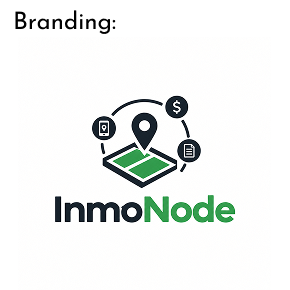
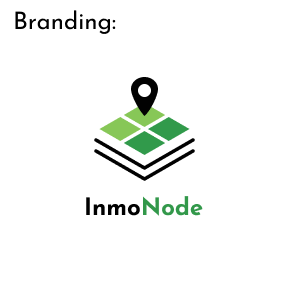
docs(chapter-03): add product design section and style guidelines

Changed region(s): [[0.1862, 0.2483, 0.8069, 0.7759]]

diff --git a/docs/Chapter-03.md b/docs/Chapter-03.md
@@ -4,7 +4,76 @@
 
 ### 3.1.1. Style Guidelines
 
+A continuación se presentan los styles guidelines, los cuales contemplan fuentes tipográficas, componentes gráficos y reglas visuales, con el objetivo de mantener una presentación consistente, coherente y enfocada en la usabilidad en todos los productos digitales del ecosistema **InmoNode**.
+
 #### 3.1.1.1. General Style Guidelines
+
+#### Branding y Tono de Comunicación
+La [Figura 3.1](#figura-3-1) identifica el isotipo y logotipo corporativo de InmoNode. La [Figura 3.2](#figura-3-2) identifica las dimensiones del tono de comunicación y lenguaje aplicado en las plataformas.
+
+<a id="figura-3-1"></a>
+![Branding de InmoNode](../assets/cap3/branding.png)  
+**Figura 3.1**  
+*Branding oficial de InmoNode*
+
+<a id="figura-3-2"></a>
+![Tono de Lenguaje](../assets/cap3/language.png)  
+**Figura 3.2**  
+*Tono de comunicación y lenguaje aplicado*
+
+* **Branding:** La identidad visual combina una mapa dividida en lotes con un puntero de ubicación. Las capas lineales inferiores simbolizan la infraestructura en varios niveles, mientras que las tonalidades verdes de los bloques representan el estado de disponibilidad y el crecimiento patrimonial de los proyectos.
+* **Language (Serio - Formal):** Al tratarse de contratos legales y seguimiento de cuotas, el lenguaje utilizado es técnico, preciso y profesional. Se eliminan la ambigüedad y los modismos, priorizando la claridad conceptual en las etiquetas del sistema (como "Estado de Cuenta", "Mis Contratos", "Separar Lote" o "Escanear Voucher").
+
+#### Paleta de Colores (Colors)
+La [Figura 3.3](#figura-3-3) identifica la paleta de colores corporativa. La [Tabla 3.1](#tabla-3-1) permite comparar los códigos hexadecimales, roles y la justificación de uso en la interfaz.
+
+<a id="figura-3-3"></a>
+![Paleta de Colores](../assets/cap3/colors.png)  
+**Figura 3.3**  
+*Paleta de colores oficial de InmoNode*
+
+<a id="tabla-3-1"></a>
+
+##### Tabla 3.1
+*Especificación de la Paleta de Colores de InmoNode*
+
+| Nombre / Tono | Código Hex | Rol en el Sistema | Justificación y Aplicación |
+| :--- | :--- | :--- | :--- |
+| **Verde Claro (Light Green)** | `#87C757` | Color Secundario / Acento | Representa frescura, dinamismo y la disponibilidad de lotes. Se aplica en etiquetas de estado "Disponible", botones secundarios y elementos destacados de la app móvil. |
+| **Verde Inmobiliario (Forest Green)** | `#319A4B` | Color Primario | Color institucional principal. Transmite crecimiento, seguridad y patrimonio. Utilizado en botones de acción principal (CTA), como "Separar Lote", "Sincronizar" y en el isotipo de la marca. |
+| **Negro Puro (Dark Black)** | `#020202` | Color de Estructura y Texto | Aporta contraste máximo, firmeza y elegancia. Utilizado en barras de navegación, encabezados (H1, H2) y textos de alta prioridad en ambas plataformas. |
+| **Blanco Claro (Off-White)** | `#F7F8F5` | Color de Fondo / Superficie | Fondo suave que reduce la fatiga visual en jornadas de trabajo prolongadas. Se utiliza como contenedor base para tarjetas del catálogo, formularios y módulos web. |
+| **Amarillo Alerta (Yellow Alert)** | `#F0F66E` | Estado de Advertencia | Diseñado para llamar la atención sin transmitir error crítico. Se utiliza en el banner de "Modo sin conexión", alertas de cuotas próximas a vencer y estado "En espera de verificación". |
+| **Naranja Terracota (Terracotta)** | `#E4572E` | Estado de Ocupado / Error | Aporta visibilidad inmediata sobre restricciones. Utilizado para marcar lotes "Vendidos" o "Bloqueados" en el mapa catastral, cuotas vencidas y errores de sincronización OCR. |
+
+#### Tipografía (Typography)
+La [Figura 3.4](#figura-3-4) identifica la especificación tipográfica adoptada para la Plataforma Web y la Aplicación Móvil (Android).
+
+<a id="figura-3-4"></a>
+![Especificación Tipográfica](../assets/cap3/typography.png)  
+**Figura 3.4**  
+*Reglas tipográficas para Web y Android*
+
+* **Plataforma Web (Josefin Sans):** Se utiliza la fuente **Josefin Sans** para la jerarquía completa de la versión Web.
+  * **Heading One:** Josefin Sans - 40 px. Títulos de secciones principales, portadas de proyectos y contadores del Dashboard.
+  * **Heading Two:** Josefin Sans - 32 px. Títulos de módulos como "Estado de Cuenta", "Mis Contratos" y "Simulador".
+  * **Body Regular / Bold:** Josefin Sans - 16 px. Párrafos, tablas de amortización, cláusulas de contratos y descripciones del catálogo.
+* **Aplicación Móvil Android (Josefin Sans & Montserrat):** Combina la elegancia de Josefin Sans en encabezados con la alta legibilidad en pantallas pequeñas de Montserrat en cuerpos de texto.
+  * **Heading One:** Josefin Sans - 40 px.
+  * **Heading Two:** Josefin Sans - 32 px.
+  * **Body Regular / Bold:** Montserrat - 14 px. Diseñada para formularios de registro in situ de prospectos, tarjetas de la cola de sincronización y datos extraídos por el motor OCR.
+
+#### Espaciado y Retícula (Spacing)
+La [Figura 3.5](#figura-3-5) identifica la unidad base de espaciado implementada en los componentes del sistema.
+
+<a id="figura-3-5"></a>
+![Unidad de Espaciado](../assets/cap3/spacing.png)  
+**Figura 3.5**  
+*Unidad base de espaciado (8 px)*
+
+* **Grid System (8 px):** Todo el diseño de componentes, *paddings*, márgenes y áreas táctiles se calcula en múltiplos de **8 px** (8px, 16px, 24px, 32px, 48px). Esto garantiza que los botones e insumos interactivos en la App Móvil cumplan con las dimensiones mínimas de accesibilidad táctil para el trabajo del agente en terreno.
+
+---
 
 ### 3.1.2. Information Architecture
 
